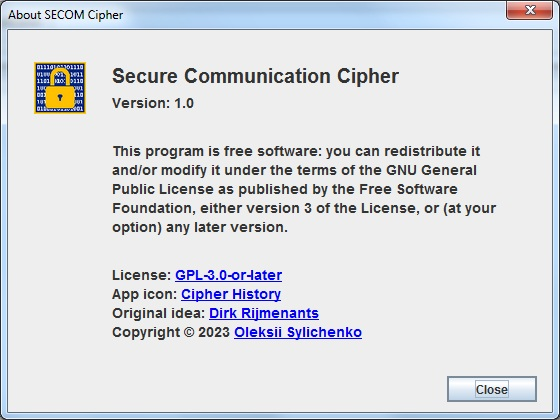
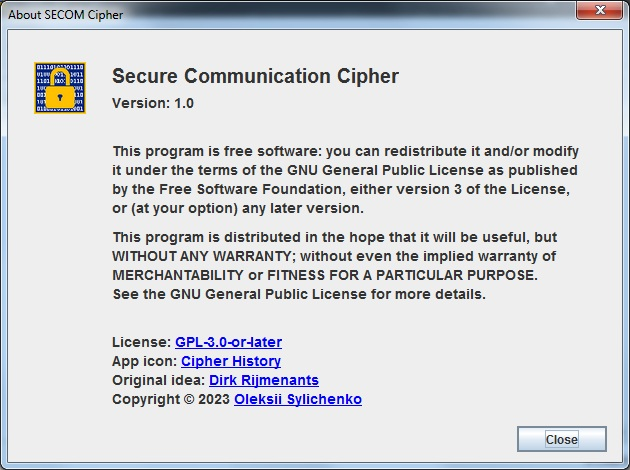
update About dialog
extend content text

Changed region(s): [[0.1518, 0.3095, 0.9411, 0.8667], [0.0, 0.0, 1.0, 1.0]]

diff --git a/src/main/resources/html/about.html b/src/main/resources/html/about.html
@@ -6,5 +6,11 @@
     the Free Software Foundation, either version 3 of the License, or
     (at your option) any later version.
 </p>
+<p style="padding-top: 8px">
+    This program is distributed in the hope that it will be useful,
+    but WITHOUT ANY WARRANTY; without even the implied warranty of
+    MERCHANTABILITY or FITNESS FOR A PARTICULAR PURPOSE.<br/>
+    See the GNU General Public License for more details.
+</p>
 </body>
 </html>

diff --git a/src/main/java/ua/in/asilichenko/secom/gui/about/AboutDialogImpl.java b/src/main/java/ua/in/asilichenko/secom/gui/about/AboutDialogImpl.java
@@ -37,8 +37,8 @@ import static java.nio.charset.StandardCharsets.UTF_8;
 public class AboutDialogImpl extends AboutDialog {
 
     private static final String TITLE = "About SECOM Cipher";
-    private static final int WIDTH = 560;
-    private static final int HEIGHT = 420;
+    private static final int WIDTH = 630;
+    private static final int HEIGHT = 470;
 
     private static final URL CONTENT_URL = Resources.getResource("html/about.html");
 
